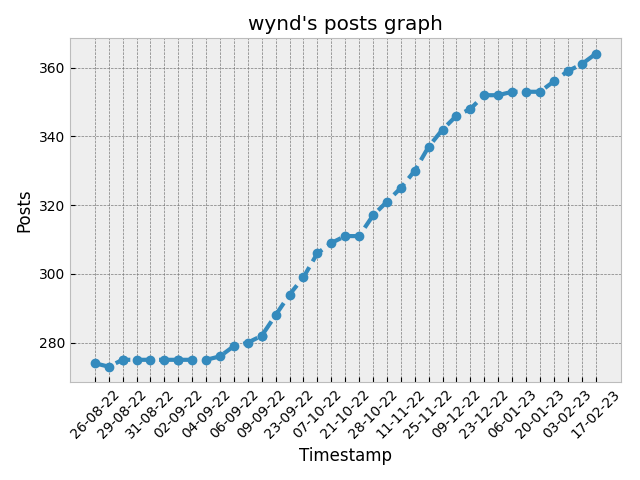
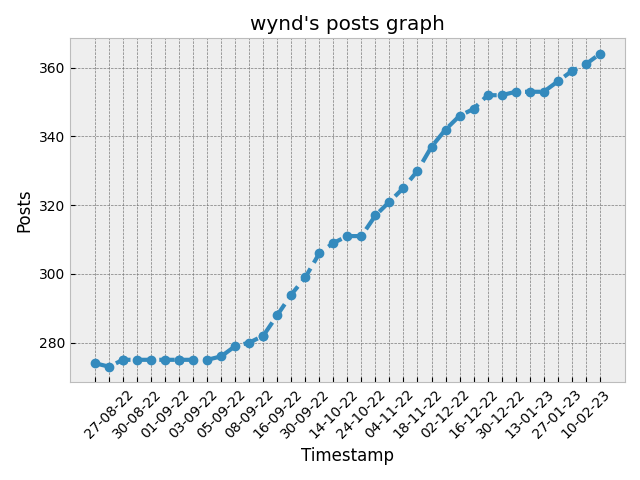
improved method of de cluttering

diff --git a/main.py b/main.py
@@ -3,7 +3,7 @@ import matplotlib.pyplot as plt
 plt.style.use('dark_background')
 
 
-def graph(user, type, multi=False, light=False):
+def graph(user, type1, multi=False, light=False):
   if light:
     c = None #use default
   else:
@@ -12,46 +12,46 @@ def graph(user, type, multi=False, light=False):
     global lines
   fig = plt.figure()
   if multi:
-    for item in lines[type]:
+    for item in lines[type1]:
       plt.plot(item[0], item[1], "o--", linewidth=3)
     name = "Wasteof"
-    plt.title(f"wasteof.money's aggregate {type} graph")
+    plt.title(f"wasteof.money's aggregate {type1} graph")
   else:
     try:
       with open(f"stats/{user}.json", "r") as file:
         data = json.load(file)
     except FileNotFoundError:
       return "no file"
-    y = data[type]
+    y = data[type1]
     x = []
     for item in data["timestamp"]:
       date = datetime.datetime.utcfromtimestamp(item).strftime('%d-%m-%Y')
       x.append(date[:-4] + date[-2:])
     plt.plot(x, y, "o--", c = c, linewidth=3)
     name = data['name']
-    plt.title(f"{name}'s {type} graph")
+    plt.title(f"{name}'s {type1} graph")
   
 
   plt.grid(c="#7a7a7a")
   plt.xlabel('Timestamp')
-  plt.ylabel(type.title())
+  plt.ylabel(type1.title())
   fig.canvas.draw() #to update x labels, stuff
   axes = plt.gca()
   label_x = axes.get_xticklabels()
-  #x = axes.get_ticks()
-  #print(x)
-  label_x = [item.get_text() for item in label_x]
+  ##x = axes.get_ticks()
+  #label_x = [item.get_text() for item in label_x]
   if len(label_x) > 25:
-    label_x[1::2] = len(label_x[1::2]) * [""] #alternate position blank. leaves the first item
-    print(label_x)
-  axes.set_xticklabels(label_x, rotation=45)
-  #plt.xticks(rotation=45, labels = label_x, ticks = x)
+    #label_x[1::2] = len(label_x[1::2]) * [""] #alternate position blank. leaves the first item
+    for label in label_x[::2]: #remove slice and add if enumerate label % 3 = 0 for every 3rd label remove
+      label.set_visible(False)
+  #axes.set_xticklabels(label_x, rotation=45)
+  plt.xticks(rotation=45)
   plt.tight_layout()
   print(f"Created for {name}")
   folder = "images"
   if light:
     folder = "lightimages"
-  plt.savefig(f"{folder}/{user}-{type}.png", dpi=100)
+  plt.savefig(f"{folder}/{user}-{type1}.png", dpi=100)
   plt.close()
   if not multi:
     return (x, y)
@@ -79,15 +79,15 @@ def graph_all(first=True):
 plt.style.use("default")
 plt.style.use("bmh")
 graph("60db0c5a956cdbbd0489eff6", "posts", light=True)
-"""
+#"""
 lines = {"following": [], "followers": [], "posts": []}
-graph_all()
-with open("stats/wasteof.json", "w") as file:
-  json.dump(lines, file, indent=2)
+#graph_all()
+#with open("stats/wasteof.json", "w") as file:
+#  json.dump(lines, file, indent=2)
 
-#with open("stats/wasteof.json", "r") as file:
-#  lines = json.load(file)
-graph("Wasteof", "posts", True)
-graph("Wasteof", "followers", True)
-graph("Wasteof", "following", True)
+with open("stats/wasteof.json", "r") as file:
+  lines = json.load(file)
+graph("Wasteof", "posts", True, True)
+graph("Wasteof", "followers", True, True)
+graph("Wasteof", "following", True, True)
 #"""
